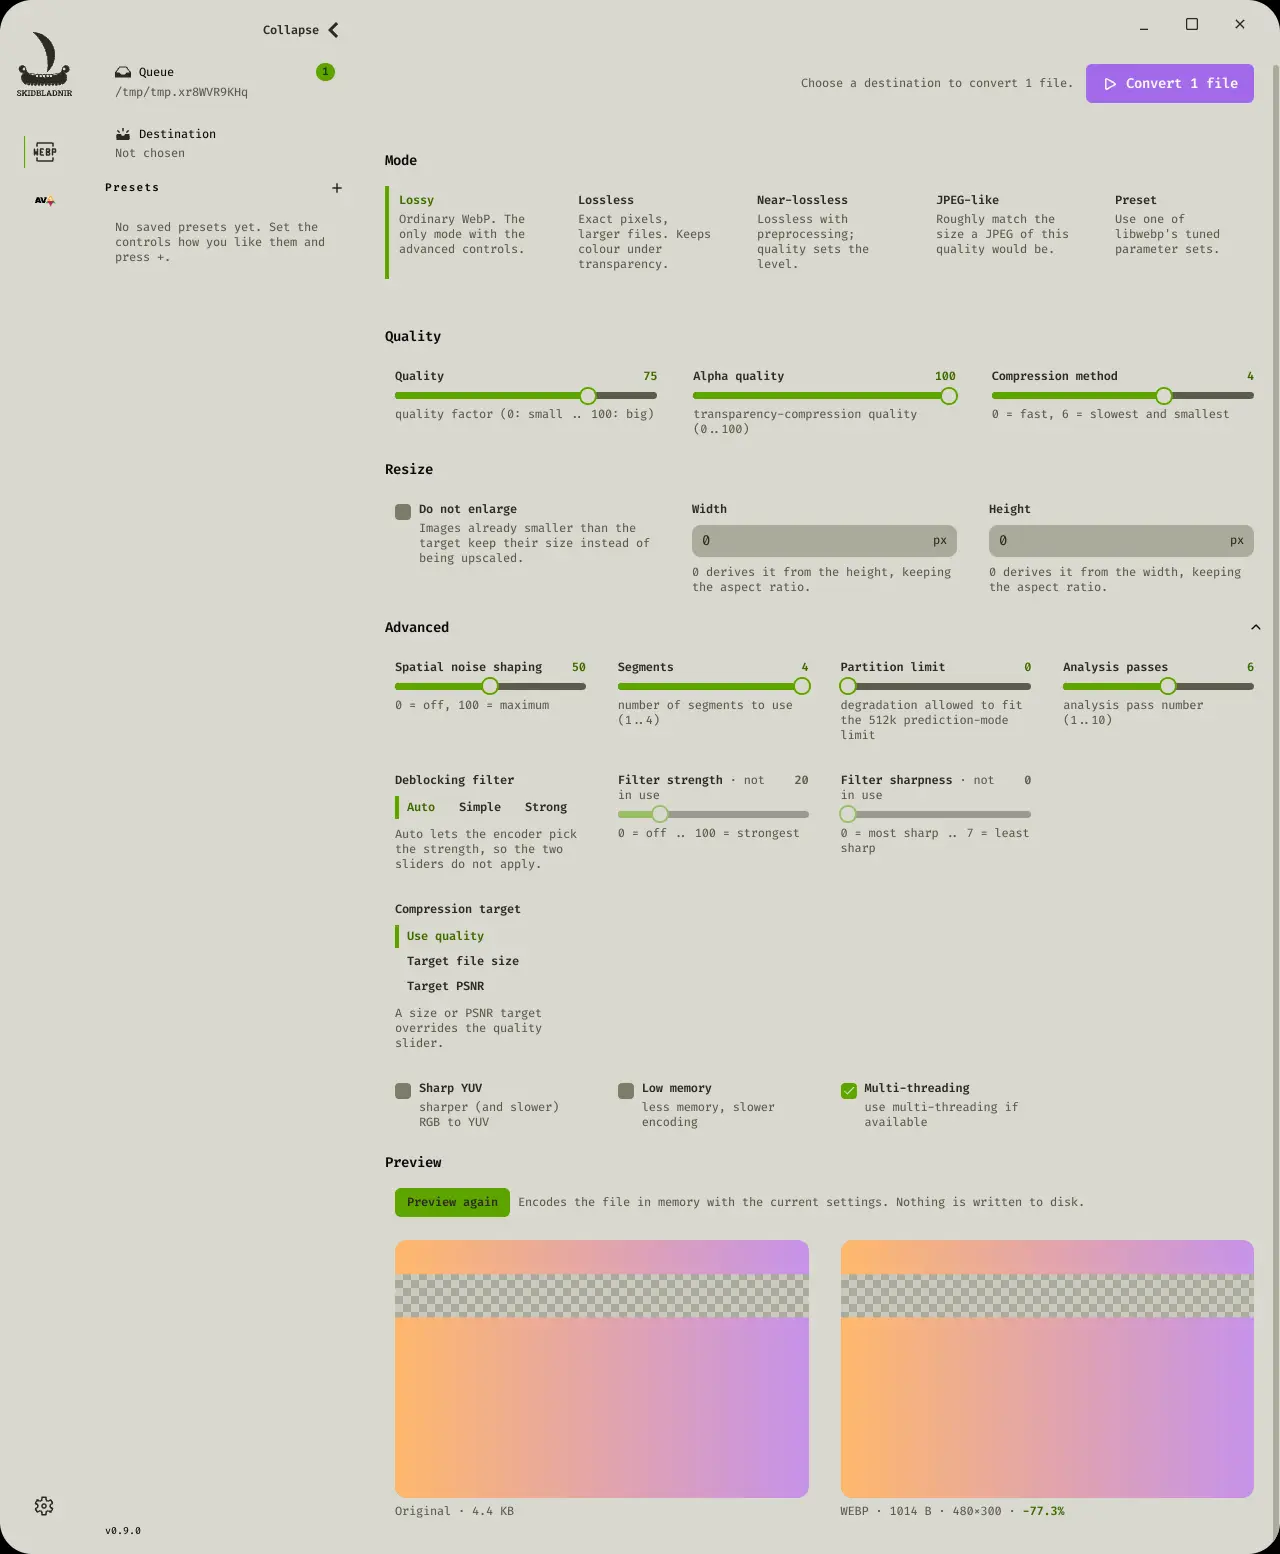
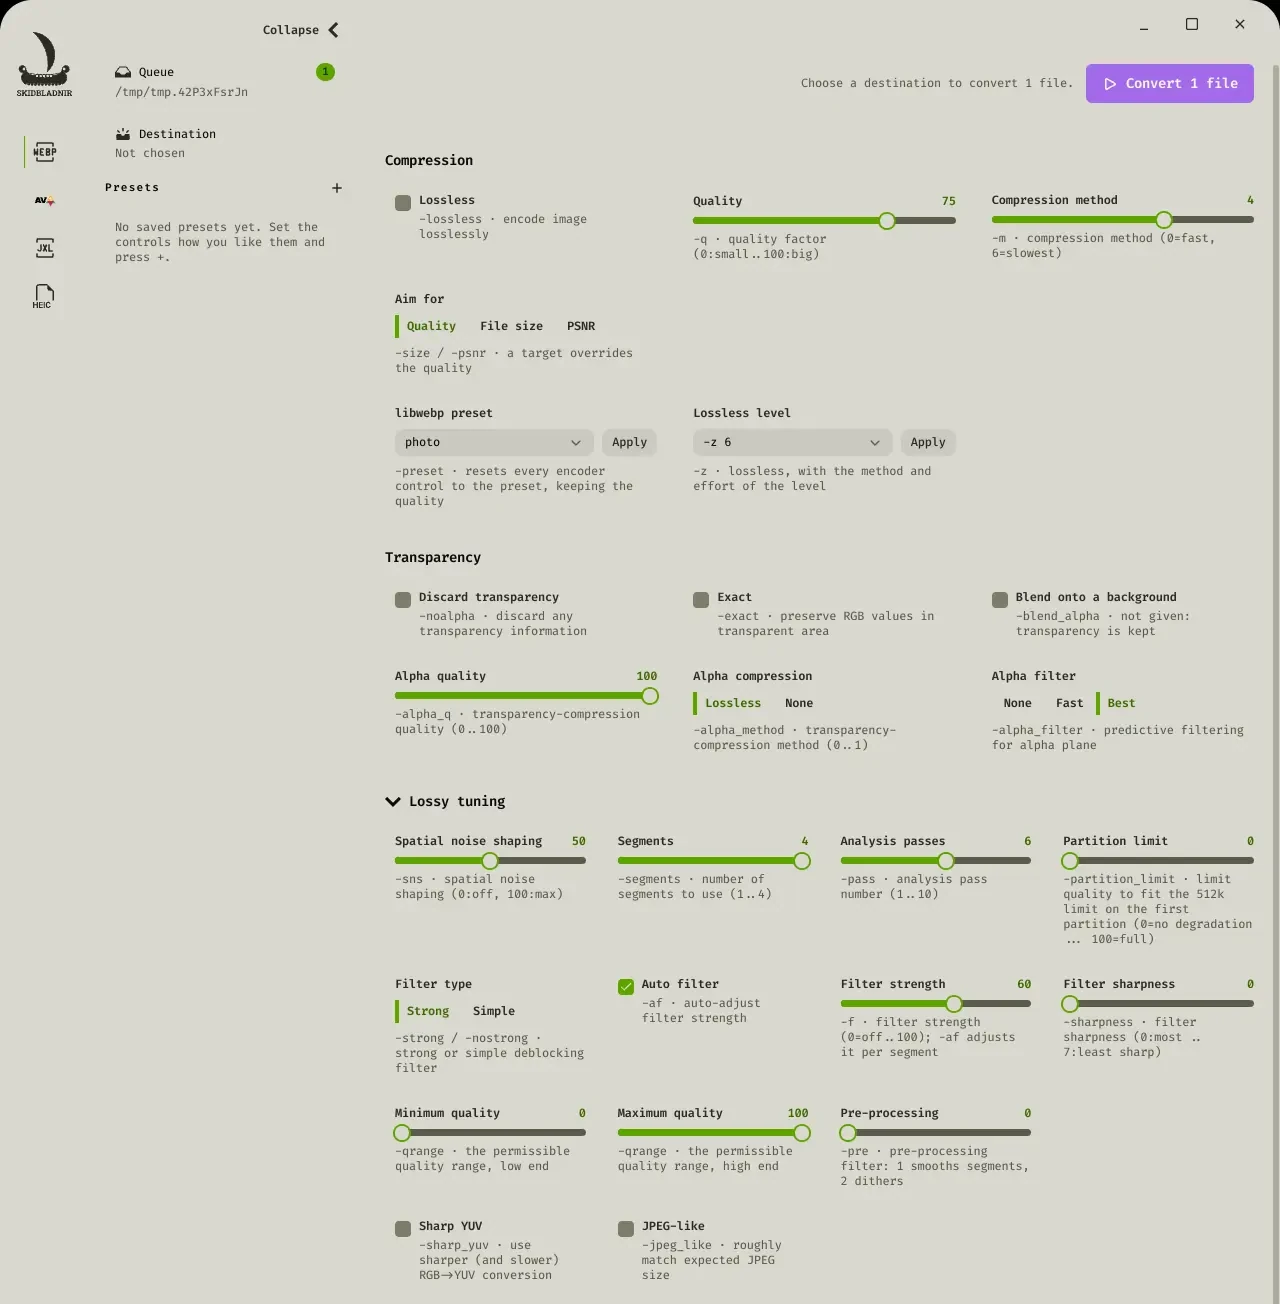
docs(skidbladnir): the scoped parity claim, the full input list and the current window
The Skidbladnir page sold a WebP-only parity claim with no scope, an input
list missing WebP, GIF, PNM/PAM and PFM, an unqualified "Windows, macOS and
Linux", a prerelease status, and a screenshot of the v0.9.0 window (two
formats in the rail, no flag labels) beside copy describing 0.14.

data/projects.ts (Skidbladnir entry):
- Parity feature: for a still image, every option of cwebp, avifenc, cjxl
  and heif-enc (with Kvazaar) is a control labelled with its flag, and the
  output matches those tools byte for byte, checked against the real tools
  on every change; the exceptions are in the readme below. No case count
  is typed in: it moves with every release and is the README's to state.
- "for a still image" added to the problem line and the expert-dials
  feature; the JPEG XL figure is now "typically about 20% (libjxl's own
  figure)".
- Inputs: HEIC, AVIF, JPEG XL, WebP, PNG, JPEG, TIFF, GIF, PNM/PAM and PFM,
  and animated GIF or WebP to animated WebP.
- A "Two editions, one app" feature: standard (Kvazaar HEIC) and GPL (x265
  HEIC), take standard if unsure.
- Status feature rewritten for 1.0: the standard Windows installer is
  installed and driven in CI, the Linux app launched and driven; macOS
  experimental (built and launched in CI, not yet tried by a person); not
  code-signed; self-updating with signature checks.
- Summary says "Windows and Linux, with an experimental macOS build"; the
  download link is labelled the same way and points at /releases/latest.
[…]

diff --git a/data/projects.ts b/data/projects.ts
@@ -48,6 +48,9 @@ export interface Project {
   logo?: string
   /** Screenshot in public/projects/shots/, shown on the card and the page */
   screenshot?: string
+  /** What the screenshot shows, for its `alt`. Without one it is "<name> screenshot",
+   *  which tells a screen reader nothing the heading has not already said. */
+  screenshotAlt?: string
   /** This project serves basicautomation.io itself — show the site's own
    *  onion address on its page, as evidence rather than as a claim */
   servesThisSite?: boolean
@@ -425,18 +428,22 @@ default_low_stock_threshold = 5    # overridable per product in the app
     name: 'Skidbladnir',
     logo: '/projects/skidbladnir.svg',
     screenshot: '/projects/shots/skidbladnir-screenshot.webp',
+    screenshotAlt:
+      'The Skidbladnir window with WebP selected: the format rail with WebP, AVIF, JPEG XL '
+      + 'and HEIC, and cwebp\'s options as controls, each labelled with the flag it sets: '
+      + 'compression, transparency and lossy tuning',
     tagline: 'Smaller images, in every modern format, without touching a command line',
     hero: 'Every modern image format, in one window.',
     summary:
       'Convert images to WebP, AVIF, JPEG XL or HEIC through a window instead of a command '
-      + 'line — each encoder\'s full control surface, not just a quality slider. See the result '
-      + 'beside the original before anything is written, then convert a batch or a whole '
-      + 'folder. Windows, macOS and Linux.',
+      + 'line — every option each encoder has for a still image, not just a quality slider. '
+      + 'See the result beside the original before anything is written, then convert a batch '
+      + 'or a whole folder. Windows and Linux, with an experimental macOS build.',
     problem:
       'The reference encoders are excellent and almost unusable: four separate command-line '
       + 'tools, each a wall of options you relearn every time you need them, each one wrong '
-      + 'flag away from a ruined batch. Skidbladnir puts a window in front of all four and '
-      + 'gets the same files out.',
+      + 'flag away from a ruined batch. Skidbladnir puts a window in front of all four and, '
+      + 'for a still image, gets the same files out.',
     kind: 'Desktop app',
     status: 'active',
     accent: 'green',
@@ -446,21 +453,26 @@ default_low_stock_threshold = 5    # overridable per product in the app
         title: 'Four formats, one window',
         body: 'WebP, AVIF, JPEG XL and HEIC, each with its own controls. Convert between any of them, and each format remembers its own settings while you try another.',
       },
+      // The claim is scoped on purpose, the way the README scopes it: still
+      // images, the four named tools, and its exceptions one click away. Never
+      // widen it to "anything the command line can do", and never type a case
+      // count here — the count moves with every release and is the README's to
+      // state.
       {
-        title: 'The same files as the reference tool',
-        body: 'WebP output is byte-for-byte identical to what the official converter produces at the same settings, checked against it on every build. If you have been hitting a particular look, you keep hitting it.',
+        title: 'The same files as the official tools',
+        body: 'For a still image, every option of cwebp, avifenc (with libaom), cjxl and heif-enc (with Kvazaar) is a control here, labelled with the flag it sets, and Skidbladnir writes the same bytes those tools write, checked against the real tools on every change. The exceptions are listed in the readme below.',
       },
       {
         title: 'See it before you write it',
         body: 'Preview the encoded result beside your original, with the size and the saving, before anything touches your disk.',
       },
       {
-        title: 'Your photo library, a fifth smaller',
-        body: 'JPEG XL repacks a JPEG about 20% smaller without decoding it, and the original can be rebuilt from it exactly. Nothing is thrown away and nothing is guessed.',
+        title: 'JPEGs about a fifth smaller, losslessly',
+        body: 'JPEG XL repacks a JPEG typically about 20% smaller without decoding it (libjxl\'s own figure), and the original can be rebuilt from it exactly. Nothing is thrown away and nothing is guessed.',
       },
       {
-        title: 'iPhone photos in, anything out',
-        body: 'Reads HEIC, AVIF, JPEG XL, PNG, JPEG and TIFF — including the CMYK JPEGs Photoshop writes and the official WebP tool refuses — and works out which is which by looking inside the file rather than trusting its name.',
+        title: 'iPhone photos in, any modern format out',
+        body: 'Reads HEIC, AVIF, JPEG XL, WebP, PNG, JPEG, TIFF, GIF, PNM/PAM and PFM — including the CMYK JPEGs Photoshop writes and the official WebP tool refuses — and works out which is which by looking inside the file rather than trusting its name. An animated GIF or WebP comes out as an animated WebP, every frame kept.',
       },
       {
         title: 'A batch, or a whole folder',
@@ -468,11 +480,15 @@ default_low_stock_threshold = 5    # overridable per product in the app
       },
       {
         title: 'Expert dials, out of the way',
-        body: 'Noise shaping, filter strength, multi-pass, sharp colour conversion, segment count — every control the encoders have, folded behind a disclosure so the simple path stays simple. Save the settings you settle on as named presets.',
+        body: 'Noise shaping, filter strength, multi-pass, sharp colour conversion, segment count — every option the encoders have for a still image, folded behind a disclosure so the simple path stays simple. Save the settings you settle on as named presets.',
+      },
+      {
+        title: 'Two editions, one app',
+        body: 'The standard edition writes HEIC with Kvazaar. The GPL edition uses x265 instead, which adds its lossless mode, 4:4:4 and 4:2:2 chroma, and 10-bit HEIC. Everything else is the same and both are free; if you are not sure, take the standard one.',
       },
       {
         title: 'Honest about where it is',
-        body: 'Still a prerelease. The Windows and Linux builds are installed and exercised automatically on every change; the macOS builds are compiled but have not yet been launched, and nothing is code-signed. It updates itself from here on, verifying each release against the project\'s signing key.',
+        body: 'Stable since 1.0. On every change, CI installs the standard edition on Windows and drives it, and launches and drives the Linux app. macOS is experimental: built and launched in CI, not yet tried by a person on a real Mac. Nothing is code-signed yet. It updates itself, checking each release against the project\'s signing key before installing it.',
       },
     ],
     // The argument for a GUI over a CLI is the command line it replaces, so
@@ -490,8 +506,11 @@ default_low_stock_threshold = 5    # overridable per product in the app
     },
     links: [
       {
-        label: 'Download for Windows, macOS or Linux',
-        href: 'https://github.com/basic-automation/Skidbladnir/releases',
+        // `/releases/latest` names the newest stable release. Before the first
+        // one, GitHub answers it with the full release list, so it is never a
+        // dead link.
+        label: 'Download (Windows, Linux; macOS experimental)',
+        href: 'https://github.com/basic-automation/Skidbladnir/releases/latest',
       },
       { label: 'Built with Tauri', href: 'https://v2.tauri.app' },
     ],

diff --git a/test/dimensions.test.ts b/test/dimensions.test.ts
@@ -47,7 +47,7 @@ describe('pngDimensions', () => {
 describe('webpDimensions', () => {
 	it('reads a lossy VP8 frame header', async () => {
 		expect(webpDimensions(await bytes('public/projects/shots/skidbladnir-screenshot.webp')))
-			.toEqual({ width: 1280, height: 1554 })
+			.toEqual({ width: 1280, height: 1304 })
 		expect(webpDimensions(await bytes('public/bg/hero.webp'))).toEqual({ width: 2000, height: 1250 })
 	})
 
@@ -84,7 +84,7 @@ describe('imageDimensions', () => {
 	it('dispatches on the bytes for every image the pages render', async () => {
 		expect(imageDimensions(await bytes('public/projects/weftdb.svg'))).toEqual({ width: 267, height: 168 })
 		expect(imageDimensions(await bytes('public/projects/shots/skidbladnir-screenshot.webp')))
-			.toEqual({ width: 1280, height: 1554 })
+			.toEqual({ width: 1280, height: 1304 })
 		expect(imageDimensions(await bytes('public/favicon-32.png'))).toEqual({ width: 32, height: 32 })
 	})
 

diff --git a/app/components/ProjectCard.vue b/app/components/ProjectCard.vue
@@ -29,7 +29,7 @@ const ago = useRelativeTime()
       <img
         v-else-if="project.screenshot"
         :src="project.screenshot"
-        :alt="`${project.name} screenshot`"
+        :alt="project.screenshotAlt ?? `${project.name} screenshot`"
         loading="lazy"
         class="absolute inset-0 h-full w-full object-cover object-top transition-opacity duration-300 group-hover:opacity-90"
       >

diff --git a/app/pages/projects/[slug]/about.vue b/app/pages/projects/[slug]/about.vue
@@ -233,7 +233,7 @@ useSeoMeta({
            it the aspect ratio; the classes still decide the drawn size. -->
       <img
         :src="project.screenshot"
-        :alt="`${project.name} screenshot`"
+        :alt="project.screenshotAlt ?? `${project.name} screenshot`"
         v-bind="assetSize(project.screenshot)"
         class="mt-8 w-full max-w-5xl"
       >

diff --git a/ROADMAP.md b/ROADMAP.md
@@ -26,6 +26,15 @@ record. There is no run log.
 - [ ] Screenshots for Nisaba and Enlil — Skidbladnir has one, the rest are all type
       (BLOCKED — needs someone who can run the two apps and capture them; the
       routine cannot produce these and will not fabricate them)
+- [ ] Keep Skidbladnir's screenshot in step with the app. It is the top 1,304 px
+      of the Skidbladnir README's `resources/images/screenshot.webp` (the per-flag
+      WebP panel of 0.14), cut at the gap above "Metadata"; re-cut it whenever
+      that file changes, then `npm run sizes`. A screenshot two releases behind
+      the copy beside it — the v0.9.0 window, two formats and no flag labels —
+      is what this replaced.
+- [ ] Skidbladnir's `status` is still `active` ("in development" on the page and
+      on its social card) — **owner decision** once 1.0.0 is out: `stable` changes
+      the card, so it needs `npm run og` (local Chromium) in the same commit.
 - [x] A card and its data can no longer drift apart. Rendering still needs a local
       Chromium, so it stays manual — but every render records what it was rendered
       from in `public/projects/og/cards.json`, and `npm run og:check` recomputes
